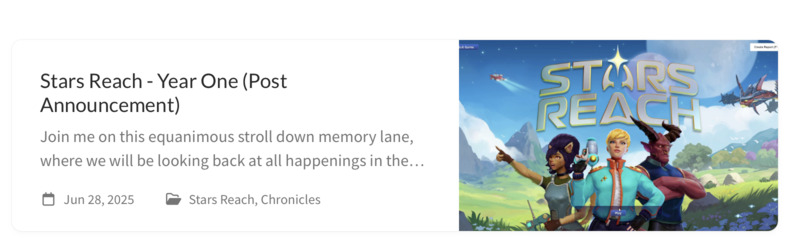
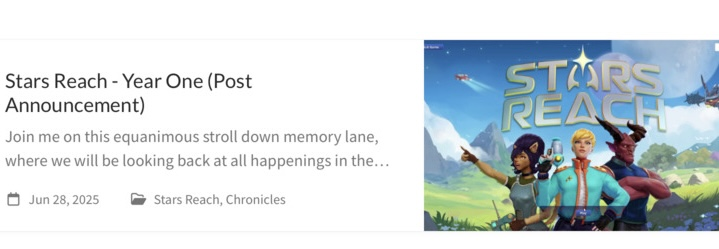
issue1 rodiniv update with questions

diff --git a/assets/css/futuristic.css b/assets/css/futuristic.css
@@ -127,7 +127,7 @@ nav a:hover {
 }
 
 .sidebar img {
-  width: 75%;
+  width: 100%;
   justify-content: center;
 }
 
